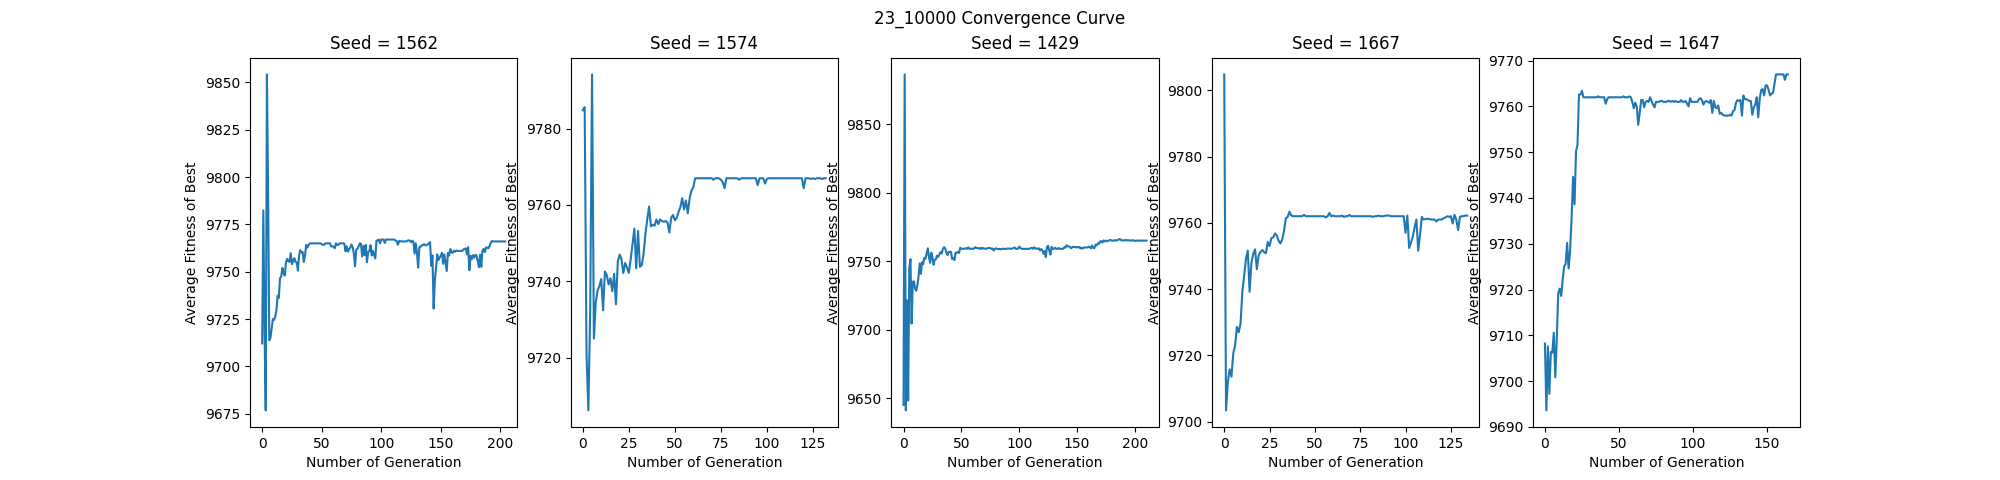
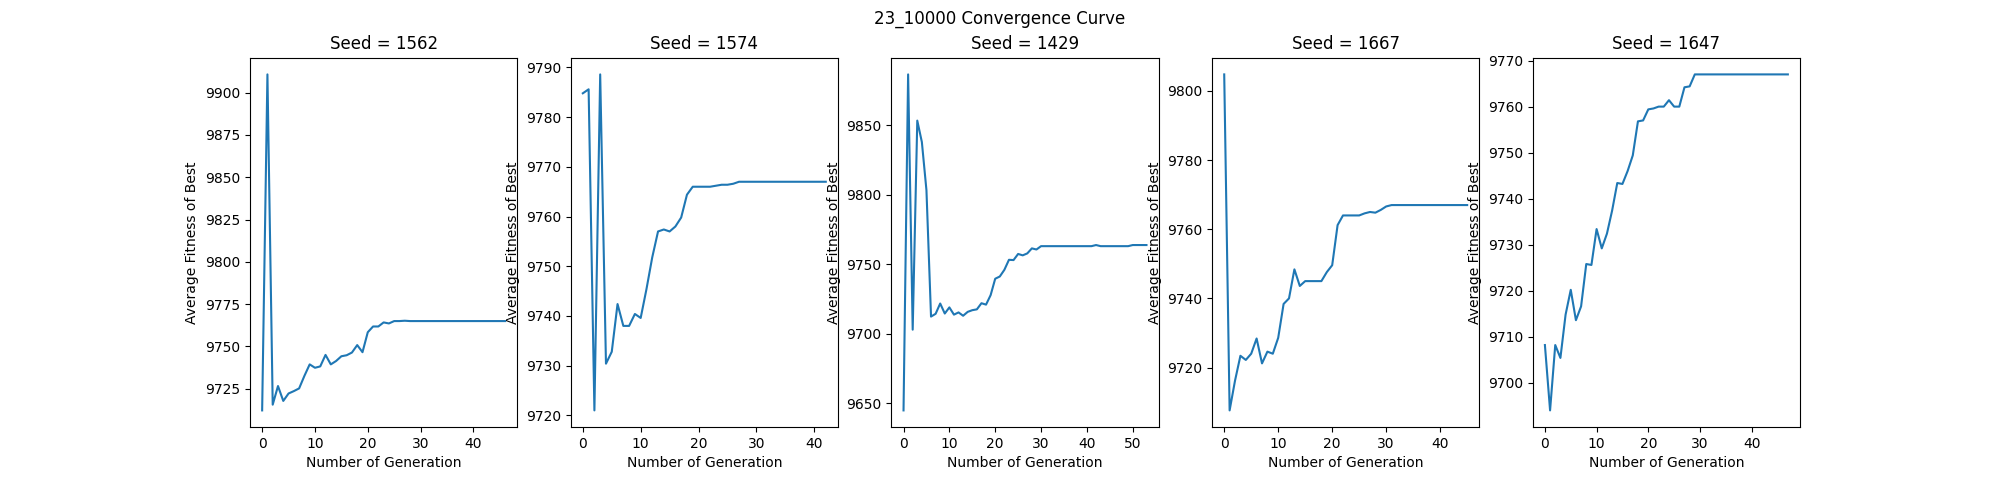
Worked on Part 2 report and code

diff --git a/report/report.tex b/report/report.tex
@@ -1,5 +1,8 @@
 \documentclass{article}
 
+\usepackage{algorithm}
+\usepackage{algpseudocode}
+
 \title{AIML426 Project 2 Report}
 \date{}
 
@@ -21,8 +24,56 @@ Where $M=$ the number of chosen items in the solution, $v=$ value and $w=$ weigh
 \subsubsection*{EDA Algorithm}
 There are two algorithms to select from for this problem: UMDA and PBIL. UMBA calculates the probability vector as the mean vector of the current generation’s population’s individuals while PBIL's probability is influenced only by the best and worst individuals in the population. PBIL focuses more on exploitation compared to UMDA since PBIL ignores individuals in the population that UMDA considers. But exploration can be implemented into PBIL using the mutation operator, something that UMDA does not have. This balance between exploitation and exploration means that PBIL was chosen for this problem. \par
 \subsubsection*{PBIL Design}
+The mutation operator in PBIL is used to encourage exploration in the solution space but it introduces more hyperparameters, which are the mutation rate and mutation shift parameters, to tune and an extra calculation in the probability vector evaluation. Even with these issues, for this problem the mutation operator is implemented to help understand all parts of the PBIL algorithm. The psuedocode of the mutation function is shown below: \par
+\begin{algorithm}
+	\caption{PBIL Probability Mutation}
+	\begin{algorithmic}
+		\For{$i \gets length(p) $}
+			\If{$random[0,1] < mut\_rate$}
+				\State{$p_i \gets p_i * (1.0-mut\_shift) + random(0.0 or 1.0) * mut\_shift$}
+			\EndIf
+		\EndFor
+	\end{algorithmic}
+\end{algorithm}
+\noindent PBIL stops when the generation either reaches the maximum number of iterations or reaches convergence. Convergence is defined by 20 generations where the changes in the best average fitness between the generations is too small to be notable. Convergence is implemented to improve execution time of problems that were likely to be solved early. The maximum number of iterations stopping criteria is used to prevent PBIL from running forever if convergence is never achieved in the problem. \par
+\noindent New solutions are generated using the probability vector which stores the probability that each bit’s value will be 1.  PBIL iterates through each element of the probability vector and generates a bit based on the probability at the current vector position and stores that bit in the same position in the individual. The result will be a bit vector used to represent the knapsack selected item combination. \par
+\noindent The probability vector evolves using three stages. The first stage iterates through the best individuals in the population and changes the probability vector using: \par 
+\begin{algorithm}
+	\caption{PBIL Best Individuals Influence}
+	\begin{algorithmic}
+		\For{$i \gets best\_N $}
+			\State{$p \gets p + \eta * (ind_i - p)$}
+		\EndFor
+	\end{algorithmic}
+\end{algorithm}
+The second stage iterates through the worst individuals in the population and changes the probability vector using the same formula from the first stage but using $-\eta$ for $\eta$ instead. The third stage is the mutation operator which mutates the values in the probability vector using the formula with the parameters $mut\_rate$ and $mut\_shift$ are defined by the user. \par
 \subsubsection*{EDA Parameters}
-\cite{baluja1994population}
+The hyperparameters used by PBIL are 
+\begin{itemize}
+	\item Population Size
+	\item Maximum Iterations
+	\item Mutation Rate
+	\item Mutation Shift
+	\item Number of Best Individuals
+	\item Number of Worst Individuals
+	\item Maximum Probability
+	\item Minimum Probability
+	\item Learning Rate
+\end{itemize}
+The initial values set for population size, mutation rate and mutation shift are the values defined in the original PBIL paper \cite{baluja1994population}. These values are:
+\begin{center}
+\begin{tabular}{|c|c|}
+	\hline
+	Population Size & 100 \\
+	\hline
+	Mutation Rate & 0.02 \\
+	\hline
+	Mutation Shift & 0.05 \\
+	\hline
+\end{tabular}
+\end{center}
+\noindent For the first dataset, the solution space of valid solutions is small, so exploitation is focused on for this dataset to find the best solution quickly. Thus, the range of probability values allowed is set to [0.02, 0.98] to encourage retaining the information from the previous populations in the probability vector. The number of best and worst solutions to look at is set to 2 for each to once again encourage a greedier approach to finding the optimal solution. \par
+\noindent For the second dataset, the solution space is bigger, so more exploration is encouraged, the probability range is decreased to [0.05, 0.95] and the number of best and worst solutions is increased to 5 to increase the amount the probability vector and populations can change through the generations. \par
 \subsection*{Results and Discussion}
 \subsection*{Conclusion}
 

diff --git a/eda_q2.py b/eda_q2.py
@@ -65,7 +65,7 @@ Returns several values: best solution, best solution's fitness, average of best 
 """
 
 def PBIL(
-    fitness_func, value_func, feature_num, rng, pop_size = 100, max_iter = 1000, max_convergence_iter = 50,
+    fitness_func, value_func, feature_num, rng, pop_size = 100, max_iter = 1000, max_convergence_iter = 20,
     mut_rate = 0.02, mut_shift = 0.05, num_best = 5, num_worst = 5, max_p = 0.9, min_p = 0.1, learning_rate=0.1):
     p = np.linspace(start=0.5, stop=0.5, num=feature_num) #initialise prob vector
 
@@ -125,15 +125,18 @@ if __name__ == "__main__":
     #store dataset as (num of items, bag capacity, data)
     datasets = [parse_data(filepath=filepath) for filepath in filepaths] #parse files
     dataset_names = ['10_269','23_10000','100_995']
-    #dataset parameters stored as (alpha, blah blah blah)
+    #dataset parameters stored as (alpha, popsize, mutation_shift, max_p, min_p, n_best, n_worst)
     dataset_parameters = [
-        (3.0, 1), #10_269
-        (3.0, 1), #23_10000
-        (10.0, 1)  #100_995
+        (3.0, 100, 0.05, 0.98, 0.02, 2, 2), #10_269
+        (3.0, 100, 0.05, 0.95, 0.05, 5, 5), #23_10000
+        (10.0, 200, 0.05, 0.95, 0.05, 5, 5)  #100_995
     ]
 
     fit_func = lambda ind : np.sum(ind)
     seeds = np.random.default_rng(seed=50).integers(low=0, high=2000, size=5)
+
+    datasets = datasets[2:3]
+    dataset_parameters = dataset_parameters[2:3]
 
     for i, (item_num, capacity, dataset) in enumerate(datasets):
         current_parameters = dataset_parameters[i]
@@ -151,7 +154,13 @@ if __name__ == "__main__":
                 fitness_func=lambda x : fitness_function(individual=x, dataset=dataset, penalty_coeff=current_parameters[0], max_weight=capacity), 
                 value_func=lambda x : value_fitness(individual=x, dataset=dataset),
                 feature_num=item_num, 
-                rng=np.random.default_rng(seed=seed)
+                rng=np.random.default_rng(seed=seed),
+                pop_size=current_parameters[1],
+                mut_shift=current_parameters[2],
+                max_p= current_parameters[3],
+                min_p= current_parameters[4],
+                num_best=current_parameters[5],
+                num_worst=current_parameters[6]
                 )
             print('best individual = ', best_ind,' fitness = ',best_fitness)
             best_fitnesses.append(best_fitness)
